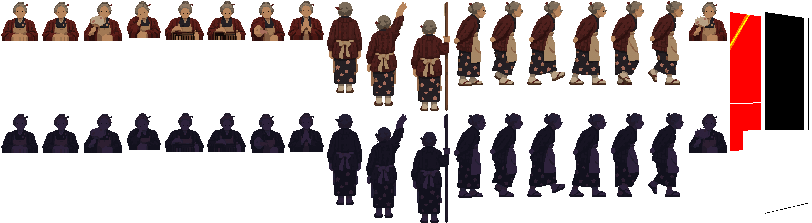
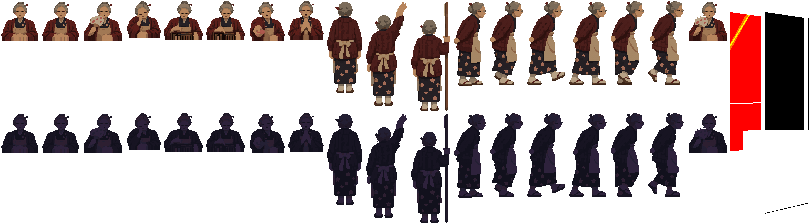
Dagashi-ya : un peu plus de détail sur le visage de l'obaa-chan, à la demande du propriétaire (tools/dagashi_obaachan.py, assets/dagashi_obaachan.webp, la ligne DGO) : ses traits posés pixel par pixel là où la planche les dessine, toujours sans trait sombre repris d'elle ni contour ; de face, ses ye

Changed region(s): [[0.1847, 0.0, 0.3387, 0.1883], [0.3079, 0.0269, 0.3387, 0.0538], [0.2463, 0.6188, 0.2771, 0.6457]]

diff --git a/assets/street.js b/assets/street.js
@@ -10665,7 +10665,7 @@
   // through the glass, turns her back (b0) and reaches up to it (r0), or stands there with her long stick (k0), and comes back
   // (STAGE: her place while she is up). Lit by the shop (the comp's level and its power; red in the red night, as its light), in
   // its dark in a power cut. Reduced motion: seated, still ----
-  const DGO = {"cells":{"s0":[0,0,40,41,20,38],"s1":[41,0,40,41,20,38],"s2":[82,0,42,41,21,38],"s3":[125,0,37,38,18,35],"a0":[163,0,42,40,21,37],"a1":[206,0,41,40,20,37],"c0":[248,0,38,41,18,38],"l0":[287,0,38,40,19,37],"b0":[326,0,38,93,19,93],"r0":[365,0,44,106,17,106],"k0":[410,0,42,111,19,111],"w0":[453,0,35,86,16,86],"w1":[489,0,36,85,16,85],"w2":[526,0,41,85,17,85],"w3":[568,0,40,85,19,85],"w4":[609,0,37,85,17,85],"w5":[647,0,39,85,19,85],"s2b":[687,0,42,41,21,38]},"dark":112,"V":[730,0,82,220,146,525],"seat":[204,655],"stand":676,"shelf":170,"trip":[0,6],"walk":["w0","w1","w2","w3","w5","w4"],"step":[5,11,2,5,9,2],"tf":[0.155,0.294,0.098,0.155,0.28,0.098],"rise":27,"z":26.45,"ppm":52.93};   // (tools/dagashi_obaachan.py)
+  const DGO = {"cells":{"s0":[0,0,40,41,20,38],"s1":[41,0,40,41,20,38],"s2":[82,0,42,41,22,38],"s3":[125,0,37,38,17,35],"a0":[163,0,41,40,21,37],"a1":[205,0,42,40,21,37],"c0":[248,0,38,41,18,38],"l0":[287,0,38,40,19,37],"b0":[326,0,38,93,19,93],"r0":[365,0,44,106,17,106],"k0":[410,0,42,111,19,111],"w0":[453,0,35,86,16,86],"w1":[489,0,36,85,16,85],"w2":[526,0,41,85,17,85],"w3":[568,0,40,85,19,85],"w4":[609,0,37,85,17,85],"w5":[647,0,39,85,19,85],"s2b":[687,0,42,41,22,38]},"dark":112,"V":[730,0,82,220,146,525],"seat":[204,655],"stand":676,"shelf":170,"trip":[0,6],"walk":["w0","w1","w2","w3","w5","w4"],"step":[5,11,2,5,9,2],"tf":[0.155,0.294,0.098,0.155,0.28,0.098],"rise":27,"z":26.45,"ppm":52.93};   // (tools/dagashi_obaachan.py)
   const OBA = { img: new Image(), A: null, V: null, st: 'gone', act: 'idle', t: 0, dur: 6, f: 's0', ft: 0, ab: false, look: 0, br: 0, brT: 3,
     x: 0, flip: false, next: '', stick: false, path: null, pi: 0, then: null, trip: 60 + Math.random() * 90, hk0: -1, sig: '',
     shop: comps.find((c) => c.userData.name === 'win_z7_shop'), pe: null };

diff --git a/tools/dagashi_obaachan.py b/tools/dagashi_obaachan.py
@@ -37,20 +37,27 @@ de la planche échangées : le pied d'appui ne recule jamais ainsi).
   sa tête à 2,08 m, 27 px plus haut qu'assise.
 - Réduction : chaque pixel de la scène est le bloc de la planche qu'il couvre ; plein si la figure en couvre au moins la moitié,
   vide sinon (jamais à demi) ; sa couleur, la moyenne de ses pixels intérieurs les plus proches de leur médiane (un bord ne mêle
-  pas deux matières). Pas de trait sombre repris de la planche : ni contour, ni lunettes, ni bouche ; à 14 px de tête, ses yeux
-  sont un pixel chacun (EYES : au centre des verres de ses lunettes, sombre ouverts, plus doux fermés : SHUT).
+  pas deux matières). Pas de trait sombre repris de la planche (ni contour) : ses traits sont posés pixel par pixel là où la
+  planche les dessine (FACE ; le propriétaire voulait un peu plus de détail de face qu'un pixel par œil) : de face, ses yeux au
+  centre des verres de ses lunettes (EYES ; un pixel ouverts, deux fermés : SHUT), la monture de part et d'autre de chaque œil
+  et le pont plus clair entre eux, l'ombre de ses cheveux sur le haut du visage, celle du nez du côté opposé à la lampe, le
+  rose des joues, la bouche entre les yeux et sous eux (MOUTH : deux pixels de lèvres ; un pixel sombre un peu ouverte, deux
+  ouverte, sur deux rangées grande ouverte) ; le même visage dessiné deux fois (SAME_FACE : le repos et le sourire, le
+  boulier) a ses traits aux mêmes pixels ; de profil, l'œil à deux pixels du bout du visage, la branche des lunettes derrière
+  lui (SIDE). Ces pixels gardent leur famille, sans grain.
 - Lumière et grain : allumée, la lumière de la boutique (sa lampe à incandescence, plus chaude que le jour des planches : LAMP ;
   puis l'étalonnage de la maquette, celui de la pièce) ; ses clairs ramenés sous la pièce
   autour d'elle + 15 % (P95 : le p95 de la clarté de la pièce allumée là où elle passe) ; puis, toutes ses images ensemble
   (tools/regrain.py : ses fonctions), FAMILIES familles de tons fixes d'une image à l'autre, chaque pixel à la sienne contre ses
-  quatre voisins (peu de pixels seuls), un grain fin baké de 1 à 3 niveaux (Bayer 4 x 4, ancré à elle) ; ses yeux gardés.
+  quatre voisins (peu de pixels seuls), un grain fin baké de 1 à 3 niveaux (Bayer 4 x 4, ancré à elle) ; ses traits gardés.
   Éteinte (la coupure de courant, boutique ouverte) : chaque famille au sombre de la pièce éteinte selon sa clarté, à sa
   palette, le même grain plus léger.
 - La marche : d'une image à la suivante le corps avance de dx pixels entiers, ceux qui gardent le pied posé sur son pixel (les
   pointes des semelles au sol de l'une sur celles de l'autre, jamais en arrière : 34 px les deux pas) ; chaque image dure le temps de son
   pas à SPEED (0,5 m/s, une vieille dame voûtée : 1,1 s les deux pas ; chaque image entre 0,1 et 0,3 s : TF) : le corps avance
   d'un pas régulier, le pied d'appui ne glisse pas.
-- La place : le milieu de son buste assise à X_SEAT, son ancre sur la rangée du haut du comptoir derrière elle ; debout, sa
+- La place : assise, chaque image posée par le comptoir que la planche dessine sous elle (le milieu du buste de SEAT_REF à X_SEAT :
+  le visage ne saute pas d'une pose à l'autre), son ancre sur la rangée du haut du comptoir derrière elle ; debout, sa
   semelle sur le plancher surélevé ; devant l'étagère, vue par la vitre de la porte de gauche, au plus près de SHELF_AT : de
   REST (les pieds joints) à REST, par les mêmes images à l'aller et au retour (elle revient juste à sa place). Ce qui est devant
   elle dans la maquette (le comptoir, le poteau, le montant et le cadre de la porte, la traverse et le panneau de bois sous la
@@ -106,7 +113,18 @@ WHITE, HOLE = 244, 40                # (la figure : un canal sous tant, ou une t
 COVER = 0.5
 EYES = (0.50, 0.82, 80, 0.15, 0.62)  # (les yeux : la bande de la tête où ils sont, du haut ; plus sombre que tant : les verres et
                                      # les yeux ; de face, de tant à tant de demi-largeurs de tête du nez)
-EYE_RGB, SHUT = (38.0, 22.0, 18.0), ('s1', 's3', 'l0')   # (ouverts ; fermés, à mi-chemin de la peau)
+EYES_SIDE = (0.50, 0.72, 95)         # (de profil : la bande, le sombre ; la monture y est plus claire)
+EYE_RGB, SHUT = (38.0, 22.0, 18.0), ('s1', 's3', 'l0')   # (ouverts ; les images aux yeux fermés)
+SEAT_REF = 's0'                      # (assise : les images posées par leur comptoir dessiné, le buste de celle-ci au milieu)
+FACE = dict(rim=(128.0, 84.0, 64.0), shut=(72.0, 42.0, 34.0), lip=(198.0, 84.0, 78.0), open=(100.0, 36.0, 34.0),
+            cheek=(236.0, 142.0, 128.0), shade=0.9)   # (de face, à la demande du propriétaire : la monture des lunettes, les yeux
+                                     # fermés, les lèvres, la bouche ouverte, le rose des joues ; l'ombre sur la peau (le nez, sous
+                                     # les cheveux), de tant)
+MOUTH = (0.12, 0.98, 15, 40, 70)     # (la bouche dessinée : de tant de hauteurs de tête sous les yeux à tant du haut de la tête,
+                                     # entre les yeux ; un peu ouverte (un pixel sombre), ouverte (deux), grande ouverte (deux, sur
+                                     # deux rangées) dès tant de px sombres de la planche)
+SIDE = (2, 2)                        # (de profil : l'œil à tant de pixels du bout du visage ; la branche des lunettes, tant de px)
+SAME_FACE = (('s0', 's1'), ('a0', 'a1'))   # (le même visage dessiné deux fois : ses traits aux mêmes pixels)
 LAMP = np.array([1.0, 0.93, 0.80])   # (sous la lampe à incandescence, juste au-dessus du comptoir : plus chaude que le jour des planches)
 P95 = 1.15                           # (ses clairs : sous le p95 de la pièce allumée autour d'elle, + 15 %)
 FAMILIES = 24
@@ -146,13 +164,14 @@ def cut(sheet, comp, point, kind):
     if kind == 'seat':                                                     # (le comptoir : en bas, les rangées qui couvrent toute la
         top = m.shape[0] - 5                                               # largeur de la figure ; la première d'entre elles)
         while top > 0 and m[top - 1, 5:-5].mean() >= 0.97: top -= 1
+        cols = np.nonzero(m[top])[0]; cx = (cols.min() + cols.max() + 1) / 2   # (le milieu du comptoir dessiné)
         m[top:] = False
     l2, n2 = nd.label(m)
     if n2 > 1:                                                             # (les poussières : dehors)
         s2 = nd.sum(m, l2, range(1, n2 + 1)); m &= np.isin(l2, 1 + np.nonzero(s2 >= 0.15 * s2.max())[0])
     ys, xs = np.nonzero(m)
     ay = top if kind == 'seat' else ys.max() + 1
-    return dict(rgb=rgb, m=m, ay=float(ay), org=(x0 - 4, y0 - 4), kind=kind)
+    return dict(rgb=rgb, m=m, ay=float(ay), org=(x0 - 4, y0 - 4), kind=kind, cx=cx if kind == 'seat' else None)
 
 
 def bust(f):
@@ -205,11 +224,12 @@ def eyes(f, hh_out):
     leurs montures, les yeux ouverts ou fermés ; plus sombre, plus lourd) de part et d'autre du nez, ou tout devant le profil"""
     c, m, h = f['rgb'], f['m'], f['head']
     L = c @ I.LUM
-    y0, y1 = int(h['crown'] + EYES[0] * hh_out), int(h['crown'] + EYES[1] * hh_out)
-    dark = np.zeros(m.shape, bool); dark[y0:y1] = m[y0:y1] & (L[y0:y1] < EYES[2])
+    Y0, Y1, Lm = EYES[:3] if f['kind'] == 'seat' else EYES_SIDE
+    y0, y1 = int(h['crown'] + Y0 * hh_out), int(h['crown'] + Y1 * hh_out)
+    dark = np.zeros(m.shape, bool); dark[y0:y1] = m[y0:y1] & (L[y0:y1] < Lm)
     ys, xs = np.nonzero(dark)
     dx = xs + 0.5 - h['hx']
-    wt = EYES[2] - L[ys, xs]
+    wt = Lm - L[ys, xs]
     if f['kind'] == 'seat':
         out = []
         for side in ((dx < -EYES[3] * h['R']) & (dx > -EYES[4] * h['R']), (dx > EYES[3] * h['R']) & (dx < EYES[4] * h['R'])):
@@ -218,6 +238,75 @@ def eyes(f, hh_out):
     front = (dx > 0) & (xs >= np.percentile(xs[dx > 0], 70)) if (dx > 0).sum() >= 10 else None   # (de profil : le verre, tout devant)
     if front is None: return []
     return [(float(np.average(xs[front], weights=wt[front])) + 0.5, float(np.average(ys[front], weights=wt[front])) + 0.5)]
+
+
+def mouth(f, hh_out, E):
+    """sa bouche dessinée (de face) : sous ses yeux, entre eux (E : leurs centres, px de la planche ; pas la manche ni la main
+    contre sa joue), ce qui est rouge et plus sombre que la peau (les lèvres, la bouche ouverte) ; son milieu, sa largeur,
+    combien elle est ouverte (ses px sombres)"""
+    c, m, h = f['rgb'], f['m'], f['head']
+    L = c @ I.LUM
+    if len(E) != 2: return None
+    y0, y1 = int(max(E[0][1], E[1][1]) + MOUTH[0] * hh_out), int(h['crown'] + MOUTH[1] * hh_out)
+    x0, x1 = int(min(E[0][0], E[1][0])), int(max(E[0][0], E[1][0])) + 1
+    red = np.zeros(m.shape, bool)
+    red[y0:y1, x0:x1] = (m & (c[..., 0] - c[..., 1] > 45) & (L < 175))[y0:y1, x0:x1]
+    if red.sum() < 8: return None
+    ys, xs = np.nonzero(red)
+    return float(xs.mean()) + 0.5, float(ys.mean()) + 0.5, float(np.ptp(xs) + 1), int((red & (L < 95)).sum())
+
+
+def face(c, E, Mo, kind, shut):
+    """ses traits, au pixel près, là où la planche les dessine (E : ses yeux, Mo : sa bouche, dans la case) : de face, l'ombre de
+    ses cheveux sur le haut de son visage, ses lunettes (la monture de part et d'autre de chaque œil, le pont plus clair entre
+    eux), ses yeux (un pixel ouverts, deux fermés), l'ombre du nez du côté opposé à la lampe, le rose des joues, la bouche (deux
+    pixels de lèvres, sombre ouverte, sur deux rangées grande ouverte) ; de profil, l'œil et le verre devant lui. Rend les
+    pixels posés (gardés tels quels ensuite)"""
+    rgb, a = c[..., :3], c[..., 3] > 0
+    r, g, b = rgb[..., 0], rgb[..., 1], rgb[..., 2]
+    skin = a & (r > 150) & (r - b > 45) & (g - b > 15) & (r - g > 25)
+    grey = a & (np.abs(r - g) < 16) & (np.abs(g - b) < 18) & (r > 90) & (r < 225)
+    H, W = a.shape
+    lk = np.zeros((H, W), bool)
+    def put(j, i, col, need=skin):
+        if 0 <= i < H and 0 <= j < W and need[i, j] and not lk[i, j]:
+            rgb[i, j] = col; lk[i, j] = True
+    sh = lambda j, i: rgb[i, j] * FACE['shade'] if 0 <= i < H and 0 <= j < W else 0
+    mix = lambda j, i, col: 0.5 * rgb[i, j] + 0.5 * np.array(col) if 0 <= i < H and 0 <= j < W else 0
+    E = sorted(E)
+    if kind == 'side':                                                     # (de profil : l'œil à deux pixels du bout de son visage,
+        for _, ey in E:                                                    #  à la rangée du verre ; la branche des lunettes derrière)
+            js = np.nonzero(skin[ey])[0]
+            if not len(js): continue
+            ex = int(js.max()) - SIDE[0]
+            put(ex, ey, EYE_RGB)
+            for d in range(1, SIDE[1] + 1): put(ex - d, ey, FACE['rim'])
+        return lk
+    if len(E) != 2:
+        for ex, ey in E: put(ex, ey, FACE['shut'] if shut else EYE_RGB, a)
+        return lk
+    (j1, i1), (j2, i2) = E
+    for (ex, ey), side in zip(E, (-1, 1)):                                 # (les yeux)
+        if shut: put(ex, ey, FACE['shut']); put(ex - side, ey, FACE['shut'])
+        else: put(ex, ey, EYE_RGB, a)
+    for (ex, ey), side in zip(E, (-1, 1)):                                 # (la monture, le pont)
+        put(ex + side, ey, FACE['rim']); put(ex - side, ey, FACE['rim'])
+    if i1 == i2:
+        for j in range(j1 + 2, j2 - 1): put(j, i1, sh(j, i1))
+    top = min(i1, i2)
+    for i in range(1, top):                                                # (l'ombre des cheveux)
+        for j in range(j1 - 2, j2 + 3):
+            if 0 <= j < W and skin[i, j] and grey[i - 1, j]: put(j, i, sh(j, i))
+    if (Mo[1] if Mo else 99) - max(i1, i2) >= 3:                           # (le nez, du côté de l'ombre, s'il a sa rangée)
+        put((j1 + j2) // 2 + 1, max(i1, i2) + 2, sh((j1 + j2) // 2 + 1, max(i1, i2) + 2))
+    put(j1 - 1, i1 + 2, mix(j1 - 1, i1 + 2, FACE['cheek'])); put(j2 + 1, i2 + 2, mix(j2 + 1, i2 + 2, FACE['cheek']))
+    if Mo:                                                                 # (la bouche, au pixel du milieu dessiné et celui vers
+        mx, my, fx, dark = Mo                                              #  lequel il penche)
+        js = [mx] if MOUTH[2] <= dark < MOUTH[3] else [mx, mx + (1 if fx >= 0.5 else -1)]
+        for j in js: put(j, my, FACE['open'] if dark >= MOUTH[2] else FACE['lip'])
+        if dark >= MOUTH[4]:
+            for j in js: put(j, my + 1, FACE['lip'])
+    return lk
 
 
 def reduce(f, s, AX, AY, W, H):
@@ -336,13 +425,16 @@ def main():
     kh = (b['ay'] - crown_b - HEAD['back']) / (HEADS - 1) / HEAD['back']
     zoom = float(np.median([2 * hair(F0[k], HEAD['seat'])[2] for k in F0 if F0[k]['kind'] == 'seat'])) / (2 * hair(b, HEAD['back'])[2])
     F = {k: reproportion(f, kh, HEAD[f['kind']]) for k, f in F0.items()}
+    dx_seat = bust(F0[SEAT_REF]) - F0[SEAT_REF]['cx']                     # (assise : chaque image posée par son comptoir, tel que
+    for f in F.values():                                                   #  dessiné ; le milieu du buste de s0 à X_SEAT)
+        if f['kind'] == 'seat': f['ax'] = f['cx'] + dx_seat
     s_scene = D.F / Z_O                                                    # (px de la scène par mètre de la maquette, à sa profondeur)
     tall = s_scene * H_REAL * SCALE_B
     s_w = tall / (F['b0']['ay'] - F['b0']['top']); s_s = s_w / zoom
     print('la tête ramenée de %.3f (b0 : %d px de la planche, %.1f têtes) ; assise dessinée %.2f fois plus grande ; debout %.1f px '
           '(%.3f px de la scène par px de la planche)' % (kh, F['b0']['ay'] - F['b0']['top'], (F['b0']['ay'] - F['b0']['top']) /
                                                            (kh * HEAD['back']), zoom, tall, s_w))
-    cells, locks, info = {}, {}, {}
+    cells, locks, info, feats = {}, {}, {}, {}
     for k, f in F.items():
         s = s_s if f['kind'] == 'seat' else s_w
         ys, xs = np.nonzero(f['m'])
@@ -351,16 +443,26 @@ def main():
         c = reduce(f, s, AX, AY, W, H)
         if f['kind'] == 'seat':                                             # (sous le haut du comptoir : sa dernière rangée, trois fois,
             for r in range(AY, H): c[r] = c[AY - 1]                         # que son souffle ne découvre rien)
-        lk = np.zeros(c.shape[:2], bool)
         hh_out = HEAD[f['kind']] * kh
-        for ex, ey in (eyes(f, hh_out) if f['kind'] != 'back' else []):    # (un pixel par œil)
-            j, i = to_cell(f, ex, ey, s, AX, AY)
-            if 0 <= i < c.shape[0] and 0 <= j < c.shape[1] and c[i, j, 3] > 0:
-                c[i, j, :3] = 0.5 * np.array(EYE_RGB) + 0.5 * c[i, j, :3] if k in SHUT else EYE_RGB; lk[i, j] = True
+        E = [to_cell(f, ex, ey, s, AX, AY) for ex, ey in (eyes(f, hh_out) if f['kind'] != 'back' else [])]
+        Mo = mouth(f, hh_out, eyes(f, hh_out)) if f['kind'] == 'seat' else None
+        if Mo: Mo = to_cell(f, Mo[0], Mo[1], s, AX, AY) + ((AX + (Mo[0] - f['ax']) * s) % 1, Mo[3])
+        feats[k] = [[(j - AX, i - AY) for j, i in E], (Mo[0] - AX, Mo[1] - AY) + Mo[2:] if Mo else None]
         mv = 'seat' if f['kind'] == 'seat' else f['kind']
-        cells[k] = [c, AX, AY, mv]; locks[k] = lk
-        info[k] = dict(h=int(np.ptp(np.nonzero(c[..., 3].any(1))[0]) + 1), head=round(hh_out * s, 1), eyes=int(lk.sum()))
-        print('%s : %d x %d, ancre (%d, %d), %.3f px de la scène par px de la planche, la tête %.1f px, %d yeux' % (k, W, H, AX, AY, s, hh_out * s, lk.sum()))
+        cells[k] = [c, AX, AY, mv]
+        info[k] = dict(h=int(np.ptp(np.nonzero(c[..., 3].any(1))[0]) + 1), head=round(hh_out * s, 1))
+        print('%s : %d x %d, ancre (%d, %d), %.3f px de la scène par px de la planche, la tête %.1f px' % (k, W, H, AX, AY, s, hh_out * s))
+    for a_, b_ in SAME_FACE:                                               # (le même visage : les traits de l'un sur l'autre, à un
+        Ea, Eb = feats[a_][0], feats[b_][0]                                #  pixel près)
+        if len(Ea) == len(Eb) and all(abs(p[0] - q[0]) <= 1 and abs(p[1] - q[1]) <= 1 for p, q in zip(sorted(Ea), sorted(Eb))):
+            feats[b_][0] = list(Ea)
+            if feats[a_][1] and feats[b_][1] and abs(feats[a_][1][0] - feats[b_][1][0]) <= 1 and abs(feats[a_][1][1] - feats[b_][1][1]) <= 1:
+                feats[b_][1] = feats[a_][1][:3] + feats[b_][1][3:]
+    for k, (c, AX, AY, mv) in cells.items():
+        E = [(x + AX, y + AY) for x, y in feats[k][0]]
+        Mo = feats[k][1]; Mo = (Mo[0] + AX, Mo[1] + AY) + Mo[2:] if Mo else None
+        locks[k] = face(c, E, Mo, F[k]['kind'], k in SHUT)
+        print('%s : les traits %s, la bouche %s, %d px posés' % (k, E, Mo and (Mo[0], Mo[1], round(Mo[2], 2), Mo[3]), locks[k].sum()))
     order = list(F)                                                        # (la marche dans son ordre : la mémoire d'une image à l'autre)
     cells = {k: cells[k] for k in [k for k in order if k not in WALK] + list(WALK)}
     # l'éventail qui bat : ses pixels (les plus pâles, d'un seul tenant, pleins) dans s2, avant la lumière

diff --git a/README.md b/README.md
@@ -38,7 +38,7 @@ tools/e33_banner.py      la bannière de l'Expédition au balcon de la maison du
 tools/e33_walkers.py     les passants du Gommage (assets/e33_walkers.webp et la description WKS dans street.js) : les deux planches du propriétaire (tools/src/e33_walker_sheet_24.webp, e33_walker_sheet_23.jpg) détourées, à la même échelle et sur la même ligne de sol, réduites sans grain ni bouillie, étalonnées au crépuscule du trottoir du fond ; la marche (les bottes reposées pour que le pied posé ne glisse pas), le demi-tour, le dos, la face ; l'ordre de leurs pixels dans le Gommage, le rouge de leurs pétales
 tools/r6_sprites.py      les sprites du clin d'œil R6 : le drone (assets/r6_drone.webp, ses normales r6_drone_n.webp) et la petite caméra murale (r6_cam.webp), dessinés pixel par pixel d'après des modèles mesurés sur des vrais (un robot de reconnaissance lançable, un dôme de surveillance), et le boîtier de l'écran des caméras (r6_panel, r6_bezel, r6_key, r6_key_on, r6_ant .webp)
 tools/dagashi_interior.py le dagashi-ya sous Kirua (remplace tools/dagashi_front.py) : par sa porte ouverte et la vitre de sa porte fermée, la boutique en petite maquette 3D vue par l'œil de la rue (la façade retrouvée d'après le seuil de la porte, à 6,33 m de l'œil ; le mur du bout de face à 27 m, le dessin du propriétaire posé dessus à l'échelle, tools/src/dagashi_room.webp : bocaux, boîtes, glacière à ramune, gacha, masques, jouets de papier, lampe ; le plancher surélevé, le comptoir à 25,7 m, le sol de planches, la caisse de ballons près de la porte, le tableau du poteau), chaque pixel pris sur 64 rayons et ramené à la couleur que portent le plus d'entre eux, à la lumière et à la palette de la boutique, au grain ; éteinte dans layer_city_off et street_unlit, allumée dans le comp assets/win_z7_shop.webp
-tools/dagashi_obaachan.py le dagashi-ya : son obaa-chan derrière son comptoir dans cette maquette, tirée des deux planches du propriétaire (tools/src/planches/obaa_1_assise_v1.png, obaa_2_debout_v1.png, la constante SHEETS ; chaque image repérée par un point) : découpée sans liseré, à sa vraie taille (1,45 m, 1,19 mètre de maquette pour un vrai : 91 px debout), sa tête ramenée à 6,5 têtes (14 px), réduite bloc par bloc, un pixel par œil, sans trait sombre, sous la lampe de la boutique, ses clairs sous la pièce + 15 %, en familles de tons au grain fin (les fonctions de tools/regrain.py), allumée et dans le noir de la boutique, la marche de six images dans son ordre au pied d'appui fixe et à pas régulier ; ce qui la cache à sa profondeur d'après la maquette ; assets/dagashi_obaachan.webp et la ligne DGO de assets/street.js
+tools/dagashi_obaachan.py le dagashi-ya : son obaa-chan derrière son comptoir dans cette maquette, tirée des deux planches du propriétaire (tools/src/planches/obaa_1_assise_v1.png, obaa_2_debout_v1.png, la constante SHEETS ; chaque image repérée par un point) : découpée sans liseré, à sa vraie taille (1,45 m, 1,19 mètre de maquette pour un vrai : 91 px debout), sa tête ramenée à 6,5 têtes (14 px), réduite bloc par bloc, sans trait sombre repris de la planche, ses traits posés au pixel là où elle les dessine (de face : les yeux, la monture des lunettes, la bouche selon l'expression, l'ombre du nez et des cheveux, le rose des joues ; de profil : l'œil et la branche des lunettes), sous la lampe de la boutique, ses clairs sous la pièce + 15 %, en familles de tons au grain fin (les fonctions de tools/regrain.py), allumée et dans le noir de la boutique, la marche de six images dans son ordre au pied d'appui fixe et à pas régulier ; ce qui la cache à sa profondeur d'après la maquette ; assets/dagashi_obaachan.webp et la ligne DGO de assets/street.js
 tools/tabako_window.py   la fenêtre du tabac (mur de face) : une petite cabine derrière la vitre (le tableau du cadre, la paroi gauche, le fond poussé vers le point de fuite et coupé par le cadre droit, la lumière qui baisse vers le bas, un reflet) (assets/win_z7_kiosk.webp)
 tools/interieur.py       (un module) une pièce vue par une ouverture d'une façade de côté : son fond de face (chaque rayon de la peinture redressé en horizontale, ses bords suivis, ses pixels gardés), le haut et le bas au grain de la peinture
 tools/ichiraku_interior.py Ichiraku : derrière ses portes vitrées, la boutique en petite maquette 3D vue par l'œil de la rue (la façade retrouvée d'après le seuil des portes ; le mur du bout de face, le dessin du propriétaire posé dessus à l'échelle, tools/src/ichiraku_room.webp ; le comptoir à 1 m sur la ligne des figures, ses bols ; trois tabourets ; une lanterne), ramenée au pixel et à la palette de la boutique ; dans layer_city_off, street_unlit, shop_off.webp et le masque ramen_glass.webp
